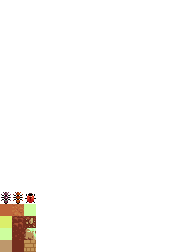
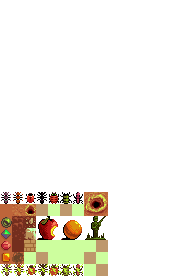
Integrate new tiles

Changed region(s): [[0.0, 0.6944, 0.5625, 1.0]]

diff --git a/main.py b/main.py
@@ -6,7 +6,7 @@ import colors
 
 libtcod.sys_set_fps(20)
 
-console.set_custom_font('tiles12x12_gs_ro.png', libtcod.FONT_TYPE_GREYSCALE | libtcod.FONT_LAYOUT_ASCII_INROW, 16, 21 )
+console.set_custom_font('tiles12x12_gs_ro.png', libtcod.FONT_TYPE_GREYSCALE | libtcod.FONT_LAYOUT_ASCII_INROW, 16, 23 )
 console.init_root(SCREEN_SIZE + Size(0, 7), 'FooQuest', False, libtcod.RENDERER_SDL)
 
 screen = console.Console()

diff --git a/levels.py b/levels.py
@@ -59,6 +59,7 @@ def level1(level, bsp, nodes):
                  lambda tile: tile.make_diggable()
     )
 
+
 #    # Stairs down
 #    for i in range(2):
 #        xy = level.random_xy(_free_square)
